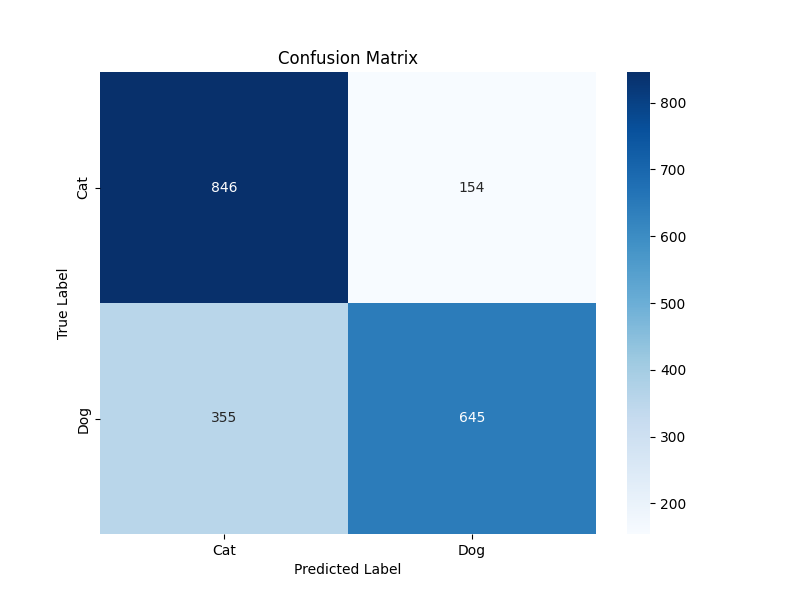
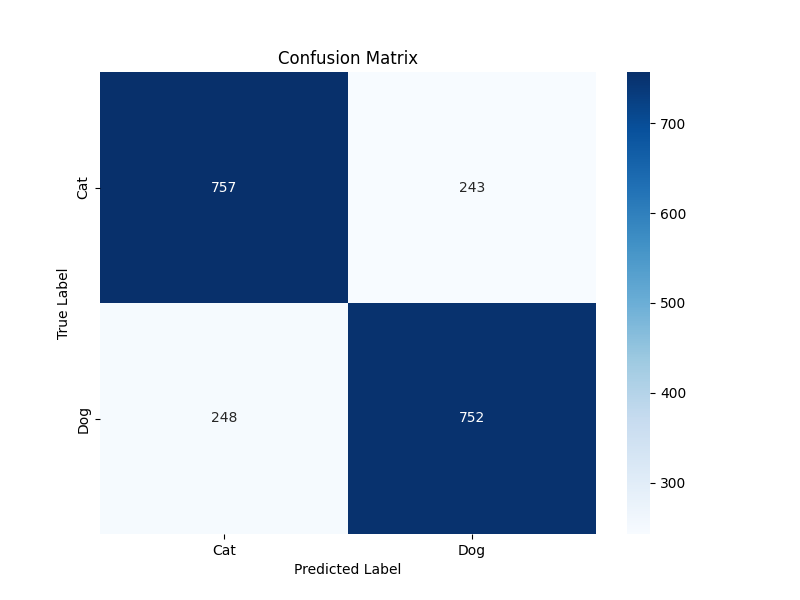
100 Epochlu örnek eklendi.

diff --git a/assignment1_tl.py b/assignment1_tl.py
@@ -78,7 +78,7 @@ accuracy_history = []
 val_loss_history = []
 val_accuracy_history = []
 
-def training_evaluation(model, train_loader, val_loader, criterion, optimizer, epochs=10):
+def training_evaluation(model, train_loader, val_loader, criterion, optimizer, epochs=100):
     for epoch in range(epochs):
         print(f"\nEpoch {epoch+1}/{epochs}")
         
